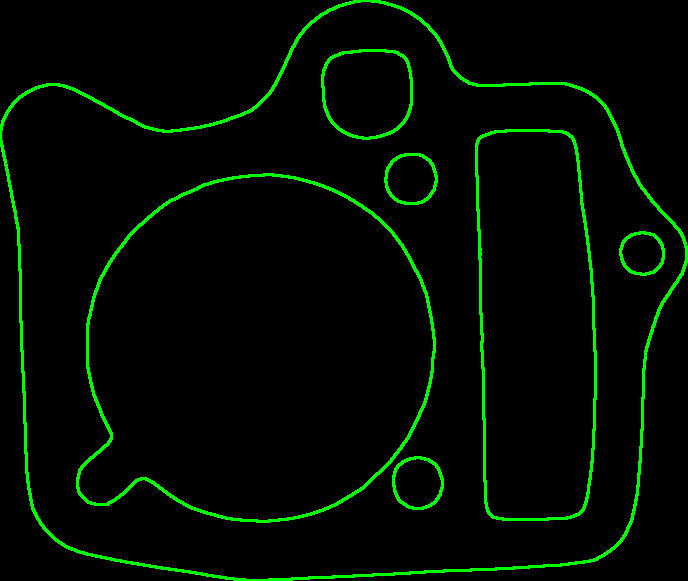
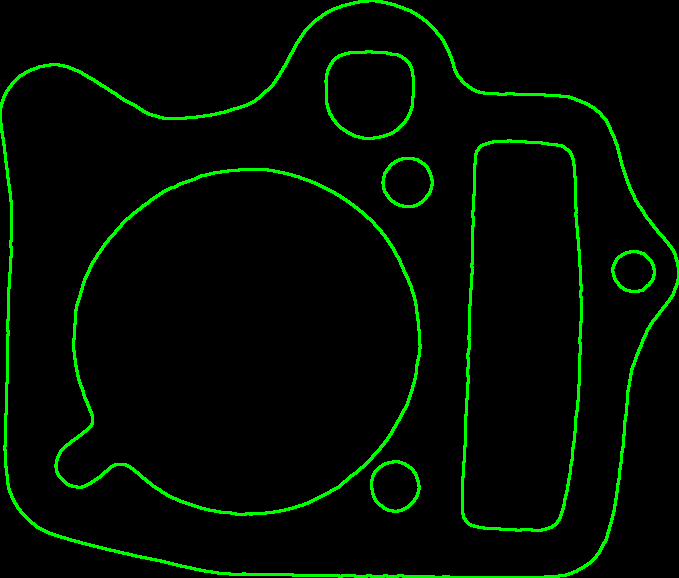
Code functions resize images of detect error v2

diff --git a/detecterror-v2/src/translations.py b/detecterror-v2/src/translations.py
@@ -3,42 +3,55 @@ import numpy as np
 
 
 def processing_images(img):
-   try:
-     if img is None:
-       return None
+    try:
+        if img is None:
+            return None
+        gray = cv2.cvtColor(img, cv2.COLOR_BGR2GRAY)
+        gray = cv2.GaussianBlur(gray, (11, 11), 0)
+        edge = cv2.Canny(gray, 100, 200)
+        _, contours, _ = cv2.findContours(edge.copy(), 1, 1)
 
-      # pre images
-      gray = cv2.cvtColor(img, cv2.COLOR_BGR2GRAY)
-      gray = cv2.GaussianBlur(gray, (11, 11), 0)
-      edge = cv2.Canny(gray, 100, 200)
-      contours, _ = cv2.findContours(edge.copy(), 1, 1)
-
-      # highlight contours
-      cv2.drawContours(gray, contours, -1, [0, 255, 0], 2)
-      gray = cv2.bitwise_not(gray)
-
-      thresh = cv2.threshold(gray, 0, 255, cv2.THRESH_BINARY | cv2.THRESH_OTSU)[1]
-      return thresh
+        # highlight contours
+        cv2.drawContours(gray, contours, -1, [0, 255, 0], 2)
+        gray = cv2.bitwise_not(gray)
+        thresh = cv2.threshold(
+            gray, 0, 255, cv2.THRESH_BINARY | cv2.THRESH_OTSU)[1]
+        return thresh
     except Exception as ex:
-      print("[Error] ", ex)
-      return None
+        print("[Error] :", ex)
+        return None
+
+
+def background_subtraction(backround, img):
+    try:
+        diff = cv2.absdiff(backround, img)
+        _, contours, hierarchy = cv2.findContours(
+            diff, cv2.RETR_LIST, cv2.CHAIN_APPROX_SIMPLE)
+        height, width = diff.shape
+        img_contours = np.zeros((height, width, 3), dtype=np.uint8)
+        cv2.drawContours(img_contours, contours, -1, (0, 255, 0), 2)
+        return diff
+    except Exception as ex:
+        print("[Error] ", ex)
+        return None
+
 
 def rotation_react(thresh):
-  try:
-    # coords
-    coords = np.column_stack(np.where(thresh == 0))
-    rect = cv2.minAreaRect(coords)
-    angle = rect[-1]
-    if angle < -45:
-          angle = -(90 + angle)
-    else:
-        angle = -angle
-    (h, w) = thresh.shape[:2]
-    center = (w//2, h//2)
-    M = cv2.getRotationMatrix2D(center, angle, 1.0)
-    rotated = cv2.warpAffine(
-        thresh, M, (w, h), flags=cv2.INTER_CUBIC, borderMode=cv2.BORDER_REPLICATE)
-    return thresh
-  except Exception as ex:
-    print("[Error] ",  ex)
-    return None 
+    try:
+        # coords
+        coords = np.column_stack(np.where(thresh == 0))
+        rect = cv2.minAreaRect(coords)
+        angle = rect[-1]
+        if angle < -45:
+            angle = -(90 + angle)
+        else:
+            angle = -angle
+        (h, w) = thresh.shape[:2]
+        center = (w//2, h//2)
+        M = cv2.getRotationMatrix2D(center, angle, 1.0)
+        rotated = cv2.warpAffine(
+            thresh, M, (w, h), flags=cv2.INTER_CUBIC, borderMode=cv2.BORDER_REPLICATE)
+        return thresh
+    except Exception as ex:
+        print("[Error] ",  ex)
+        return None

diff --git a/detecterror-v2/main.py b/detecterror-v2/main.py
@@ -2,7 +2,7 @@ import cv2
 import numpy as np
 from possible import Possible
 
-img_input = "images/error1_1.jpg"
+img_input = "images/error2_2.jpg"
 
 
 # args is images thresh
@@ -20,23 +20,32 @@ def rotation_rect(thresh):
     M = cv2.getRotationMatrix2D(center, angle, 1.0)
     rotated = cv2.warpAffine(
         thresh, M, (w, h), flags=cv2.INTER_CUBIC, borderMode=cv2.BORDER_REPLICATE)
-    return rotated
+
+    gray = cv2.GaussianBlur(rotated, (11, 11), 0)
+    edge = cv2.Canny(gray, 100, 200)
+    _, contours, _ = cv2.findContours(edge.copy(), 1, 1)
+    cv2.drawContours(gray, contours, -1, [0, 255, 0], 2)
+    gray = cv2.bitwise_not(gray)
+    thresh = cv2.threshold(
+        gray, 0, 255, cv2.THRESH_BINARY | cv2.THRESH_OTSU)[1]
+    return thresh
 
 
 def find_contours(thresh):
-    contours, hierarchy = cv2.findContours(
+    _, contours, hierarchy = cv2.findContours(
         thresh, cv2.RETR_LIST, cv2.CHAIN_APPROX_SIMPLE)
     height, width = thresh.shape
     img_contours = np.zeros((height, width, 3), dtype=np.uint8)
     cv2.drawContours(img_contours, contours, -1, (0, 255, 0), 2)
     for i in range(0, len(contours)):
         possible = Possible(contours[i])
+        print("area:", str(possible.bounding_react_area))
         h = possible.bounding_react_height
         w = possible.bounding_react_with
         x = possible.bounding_react_x
         y = possible.bounding_react_y
         roi = img_contours[y:y+h, x:x+w]
-        cv2.imwrite("output/" + str(i)+".png", roi)
+        cv2.imwrite("output/22" + str(i)+".png", roi)
     print("Len contours:", str(len(contours)))
     return img_contours
 
@@ -47,20 +56,17 @@ def main():
     gray = cv2.cvtColor(img, cv2.COLOR_BGR2GRAY)
     gray = cv2.GaussianBlur(gray, (11, 11), 0)
     edge = cv2.Canny(gray, 100, 200)
-    contours, _ = cv2.findContours(edge.copy(), 1, 1)
+    _, contours, _ = cv2.findContours(edge.copy(), 1, 1)
     cv2.drawContours(gray, contours, -1, [0, 255, 0], 2)
     gray = cv2.bitwise_not(gray)
     thresh = cv2.threshold(
         gray, 0, 255, cv2.THRESH_BINARY | cv2.THRESH_OTSU)[1]
-    # cv2.imshow("thresh",  thresh)
-
-    img_contours = find_contours(thresh)
-    # cv2.imshow("img contours", img_contours)
-    cv2.imwrite("output/img_contours.png", img_contours)
 
     # # rotationed images
-    # rotationed = rotation_rect(thresh)
-    # cv2.imwrite("images/rotated.png", rotationed)
+    rotationed = rotation_rect(thresh)
+    img_contours = find_contours(rotationed)
+    cv2.imwrite("output/img_contours.png", img_contours)
+    cv2.imwrite("images/rotated.png", rotationed)
     # cv2.waitKey(0)
     print("=== Done ===")
 

diff --git a/detecterror-v2/src/test.py b/detecterror-v2/src/test.py
@@ -1,0 +1,31 @@
+import cv2
+
+from translations import processing_images, background_subtraction
+
+
+def test_background_subtracttions():
+    background_input_img = "output/resize.png"
+    input_img = "output/227.png"
+    
+
+    background_img = cv2.imread(background_input_img)
+    # background_img = processing_images(background_img)
+
+    img = cv2.imread(input_img)
+    # img = processing_images(img)
+
+    diff = background_subtraction(background_img, img)
+    cv2.imwrite("output/diff.png", diff)
+
+
+def resize_image():
+    pattern_img = cv2.imread("output/227.png")
+    resize_img = cv2.imread("output/6.png")
+    height, width, channels = pattern_img.shape
+    dim = (width, height)
+    resized = cv2.resize(resize_img, dim, interpolation=cv2.INTER_AREA)
+    cv2.imwrite("output/resize.png", resized)
+
+
+# resize_image()
+test_background_subtracttions()
